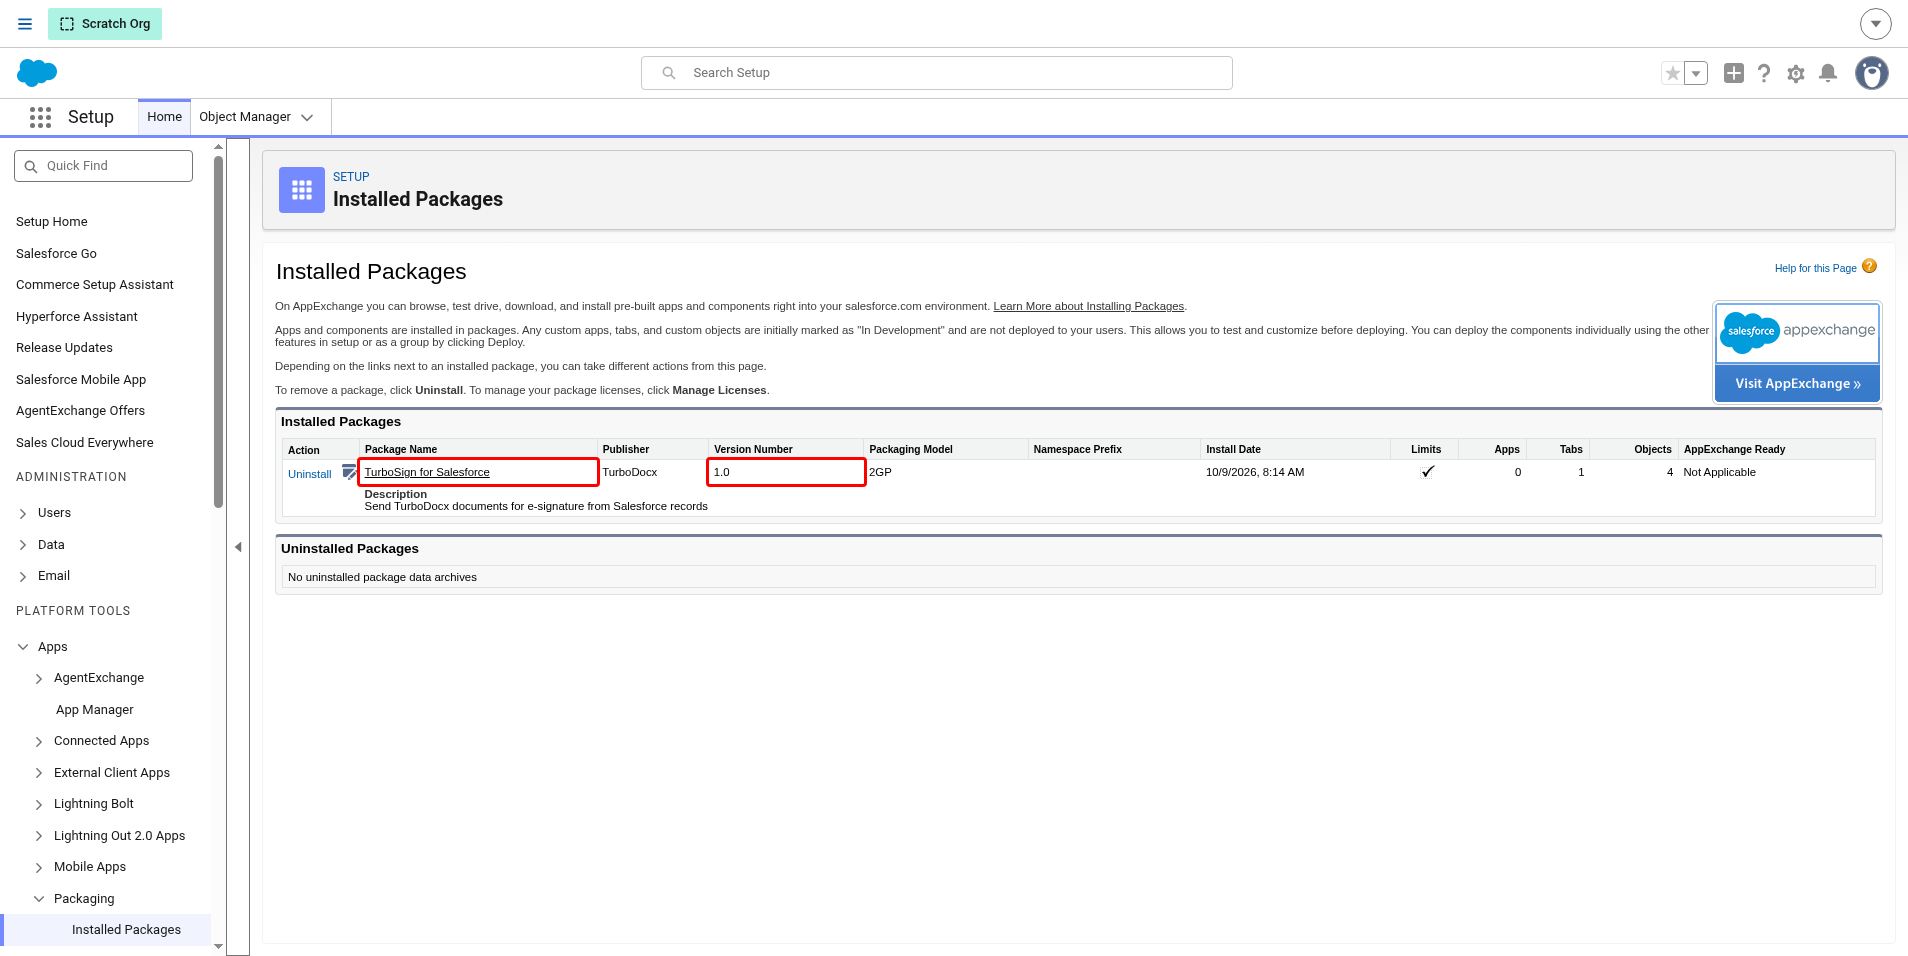
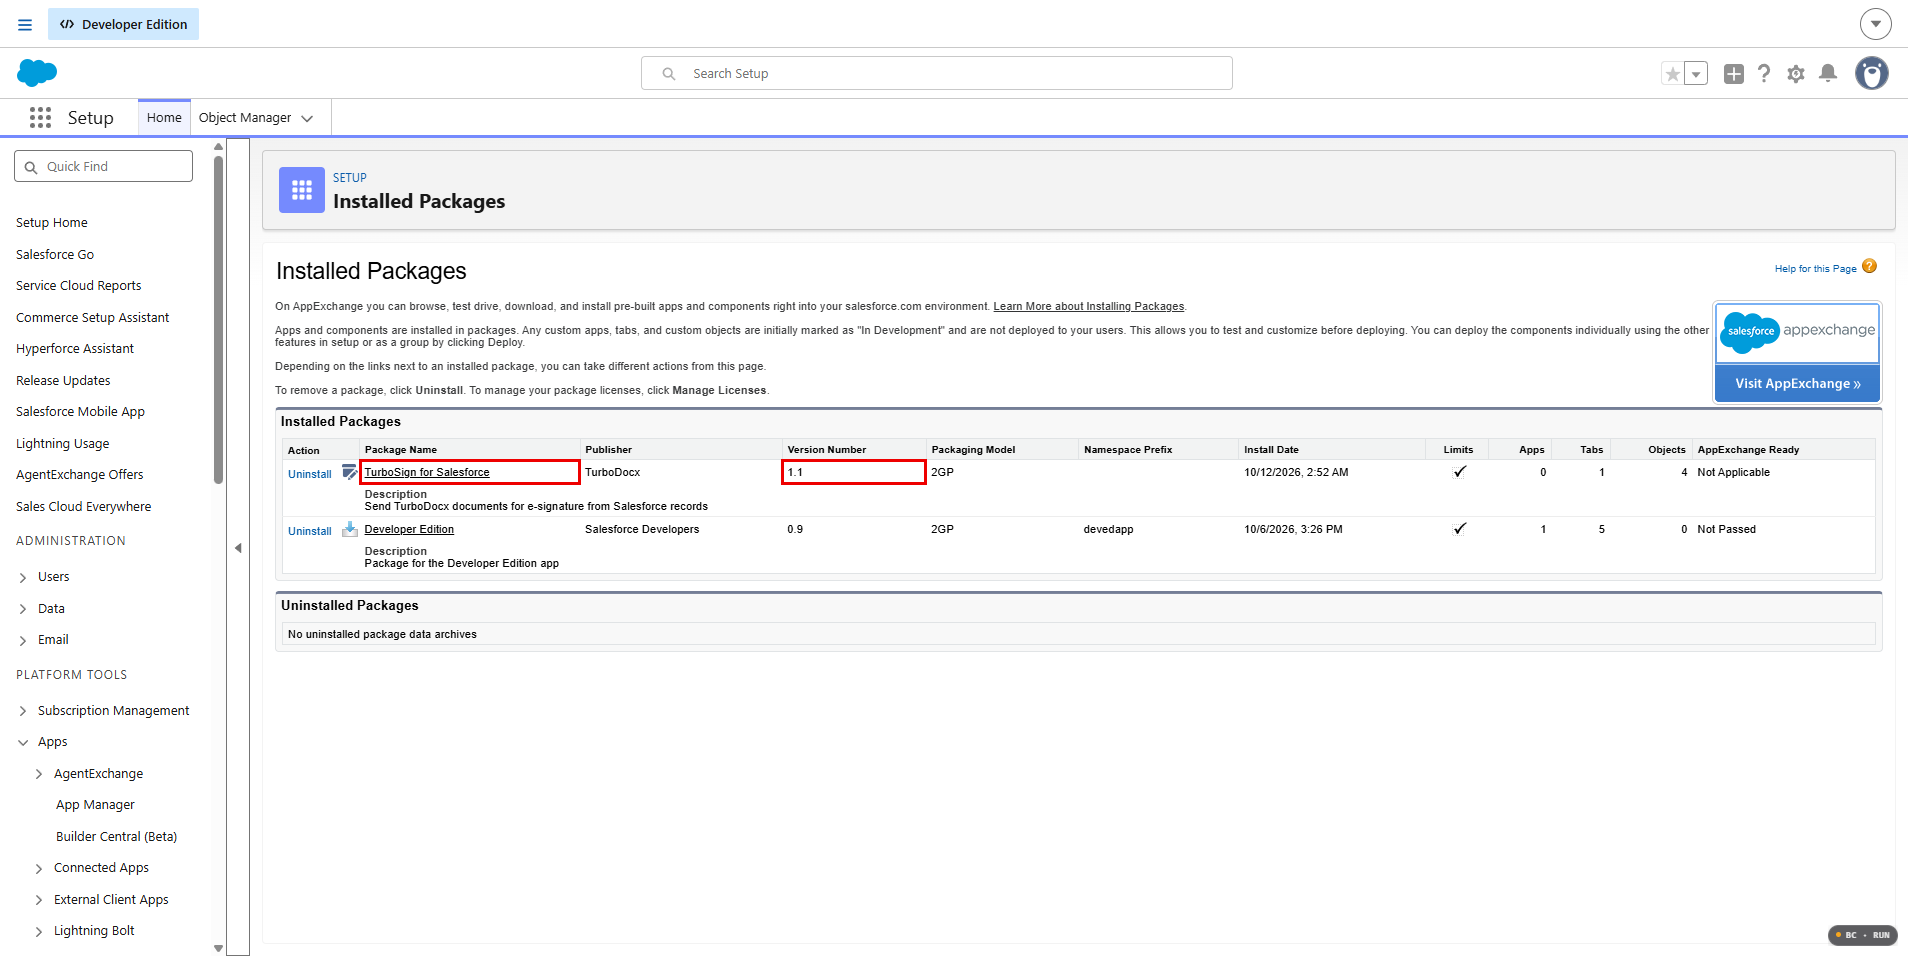
docs(turbosign-salesforce): 1.1.0 storage-full send note, 1.1 installed screenshot
Troubleshooting: in 1.1.0 a send whose Salesforce record can't be saved (org
over its storage limit) can show Send failed although the signers got the
email. Installed Packages screenshot retaken on 1.1, matching the text.

diff --git a/docs/Integrations/TurboSign-for-Salesforce/troubleshooting.md b/docs/Integrations/TurboSign-for-Salesforce/troubleshooting.md
@@ -53,6 +53,8 @@ The connection dropped after TurboDocx may already have sent the document.
 
 **Fix:** Before you click **Send** again, click **Refresh** in the **TurboSign Signatures** panel, or ask the signer whether they got an email. If the document went out, don't send it again, so the signers don't get two copies. If you don't see the panel, ask your admin to add it.
 
+In version 1.1.0, if Salesforce can't save the send's record after TurboDocx accepted the document (for example, because your org is over its storage limit), you may see **Send failed** instead, even though the signers got the email. If a send fails right after a long wait, ask the signer before you send again, and ask your admin to check your org's storage.
+
 ## "You have approached the limit of Deliverables for your plan"
 
 Each preview creates a short-lived document that counts toward your TurboDocx plan's deliverable limit while it renders. TurboSign removes it right after. Sending also creates a document. Once the limit is reached, TurboDocx refuses both previews and sends.
